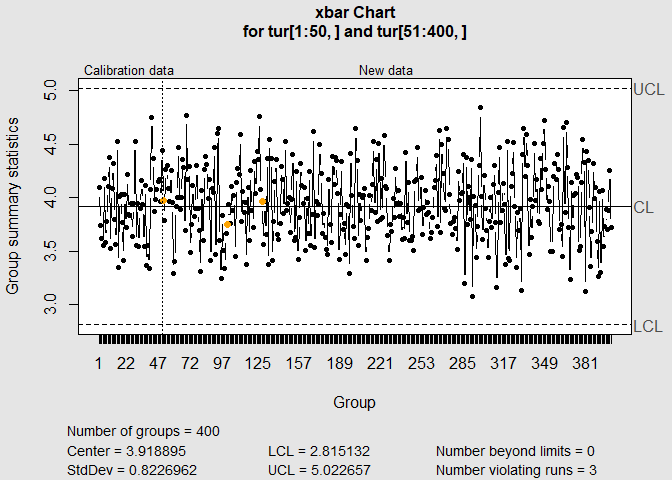
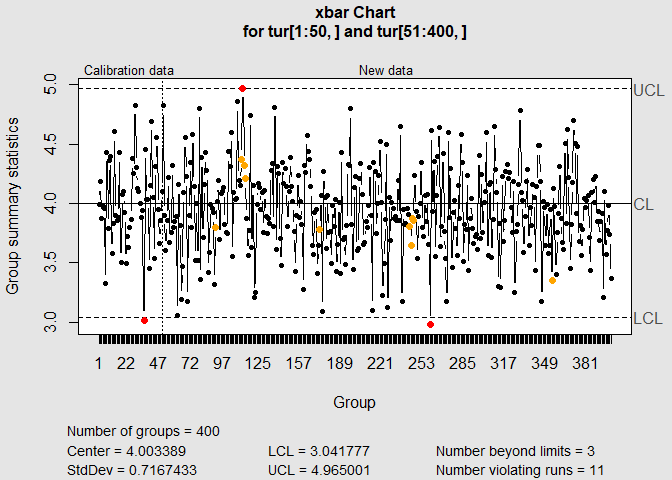
update rmd

diff --git a/quality-control.md b/quality-control.md
@@ -94,20 +94,20 @@ with(pot, qcc(pot$defect[1:20], pot$size[1:20], type = "p", newdata=pot$defect[2
     ##  $ call        : language qcc(data = pot$defect[1:20], type = "p", sizes = pot$size[1:20], newdata = pot$defect[21:100],      newsizes = pot$size[21:100])
     ##  $ type        : chr "p"
     ##  $ data.name   : chr "pot$defect[1:20]"
-    ##  $ data        : num [1:20, 1] 10 16 12 12 14 16 13 9 13 14 ...
+    ##  $ data        : num [1:20, 1] 8 14 15 9 14 12 13 15 14 13 ...
     ##   ..- attr(*, "dimnames")=List of 2
-    ##  $ statistics  : Named num [1:20] 0.5 0.8 0.6 0.6 0.7 0.8 0.65 0.45 0.65 0.7 ...
+    ##  $ statistics  : Named num [1:20] 0.4 0.7 0.75 0.45 0.7 0.6 0.65 0.75 0.7 0.65 ...
     ##   ..- attr(*, "names")= chr [1:20] "1" "2" "3" "4" ...
     ##  $ sizes       : num [1:20] 20 20 20 20 20 20 20 20 20 20 ...
-    ##  $ center      : num 0.608
-    ##  $ std.dev     : num 0.488
-    ##  $ newstats    : Named num [1:80] 0.7 0.7 0.45 0.65 0.65 0.45 0.75 0.6 0.6 0.45 ...
+    ##  $ center      : num 0.62
+    ##  $ std.dev     : num 0.485
+    ##  $ newstats    : Named num [1:80] 0.6 0.55 0.6 0.7 0.65 0.6 0.65 0.65 0.75 0.75 ...
     ##   ..- attr(*, "names")= chr [1:80] "21" "22" "23" "24" ...
-    ##  $ newdata     : num [1:80, 1] 14 14 9 13 13 9 15 12 12 9 ...
+    ##  $ newdata     : num [1:80, 1] 12 11 12 14 13 12 13 13 15 15 ...
     ##  $ newsizes    : num [1:80] 20 20 20 20 20 20 20 20 20 20 ...
     ##  $ newdata.name: chr "pot$defect[21:100]"
     ##  $ nsigmas     : num 3
-    ##  $ limits      : num [1:100, 1:2] 0.28 0.28 0.28 0.28 0.28 ...
+    ##  $ limits      : num [1:100, 1:2] 0.294 0.294 0.294 0.294 0.294 ...
     ##   ..- attr(*, "dimnames")=List of 2
     ##  $ violations  :List of 2
     ##  - attr(*, "class")= chr "qcc"
